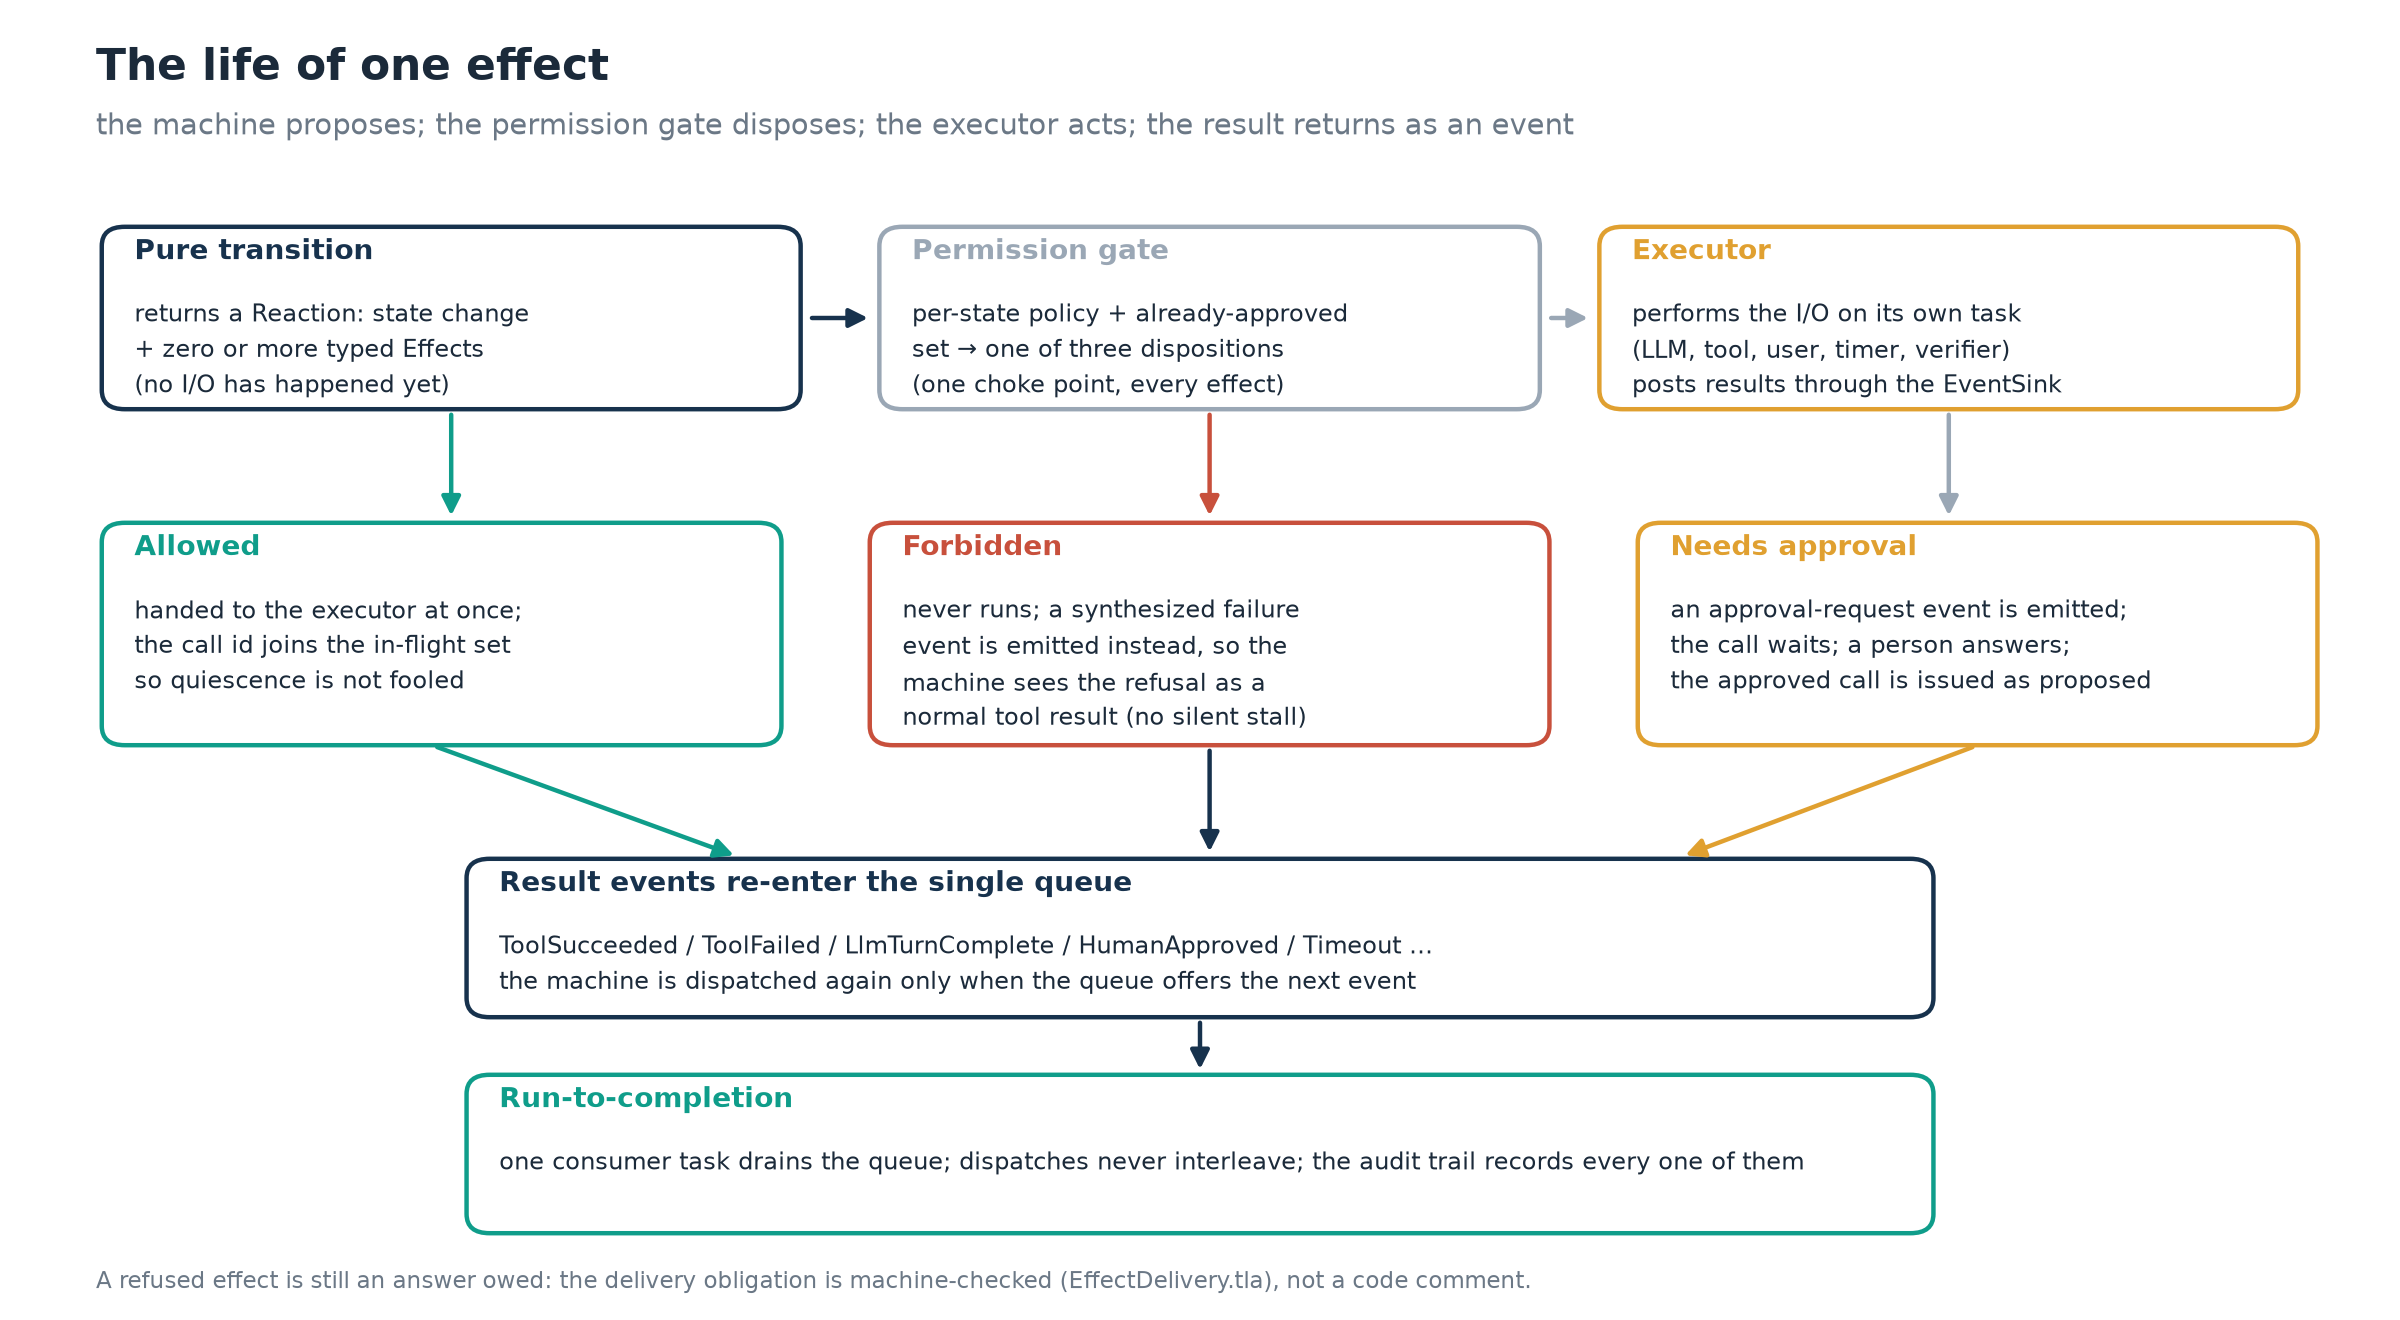
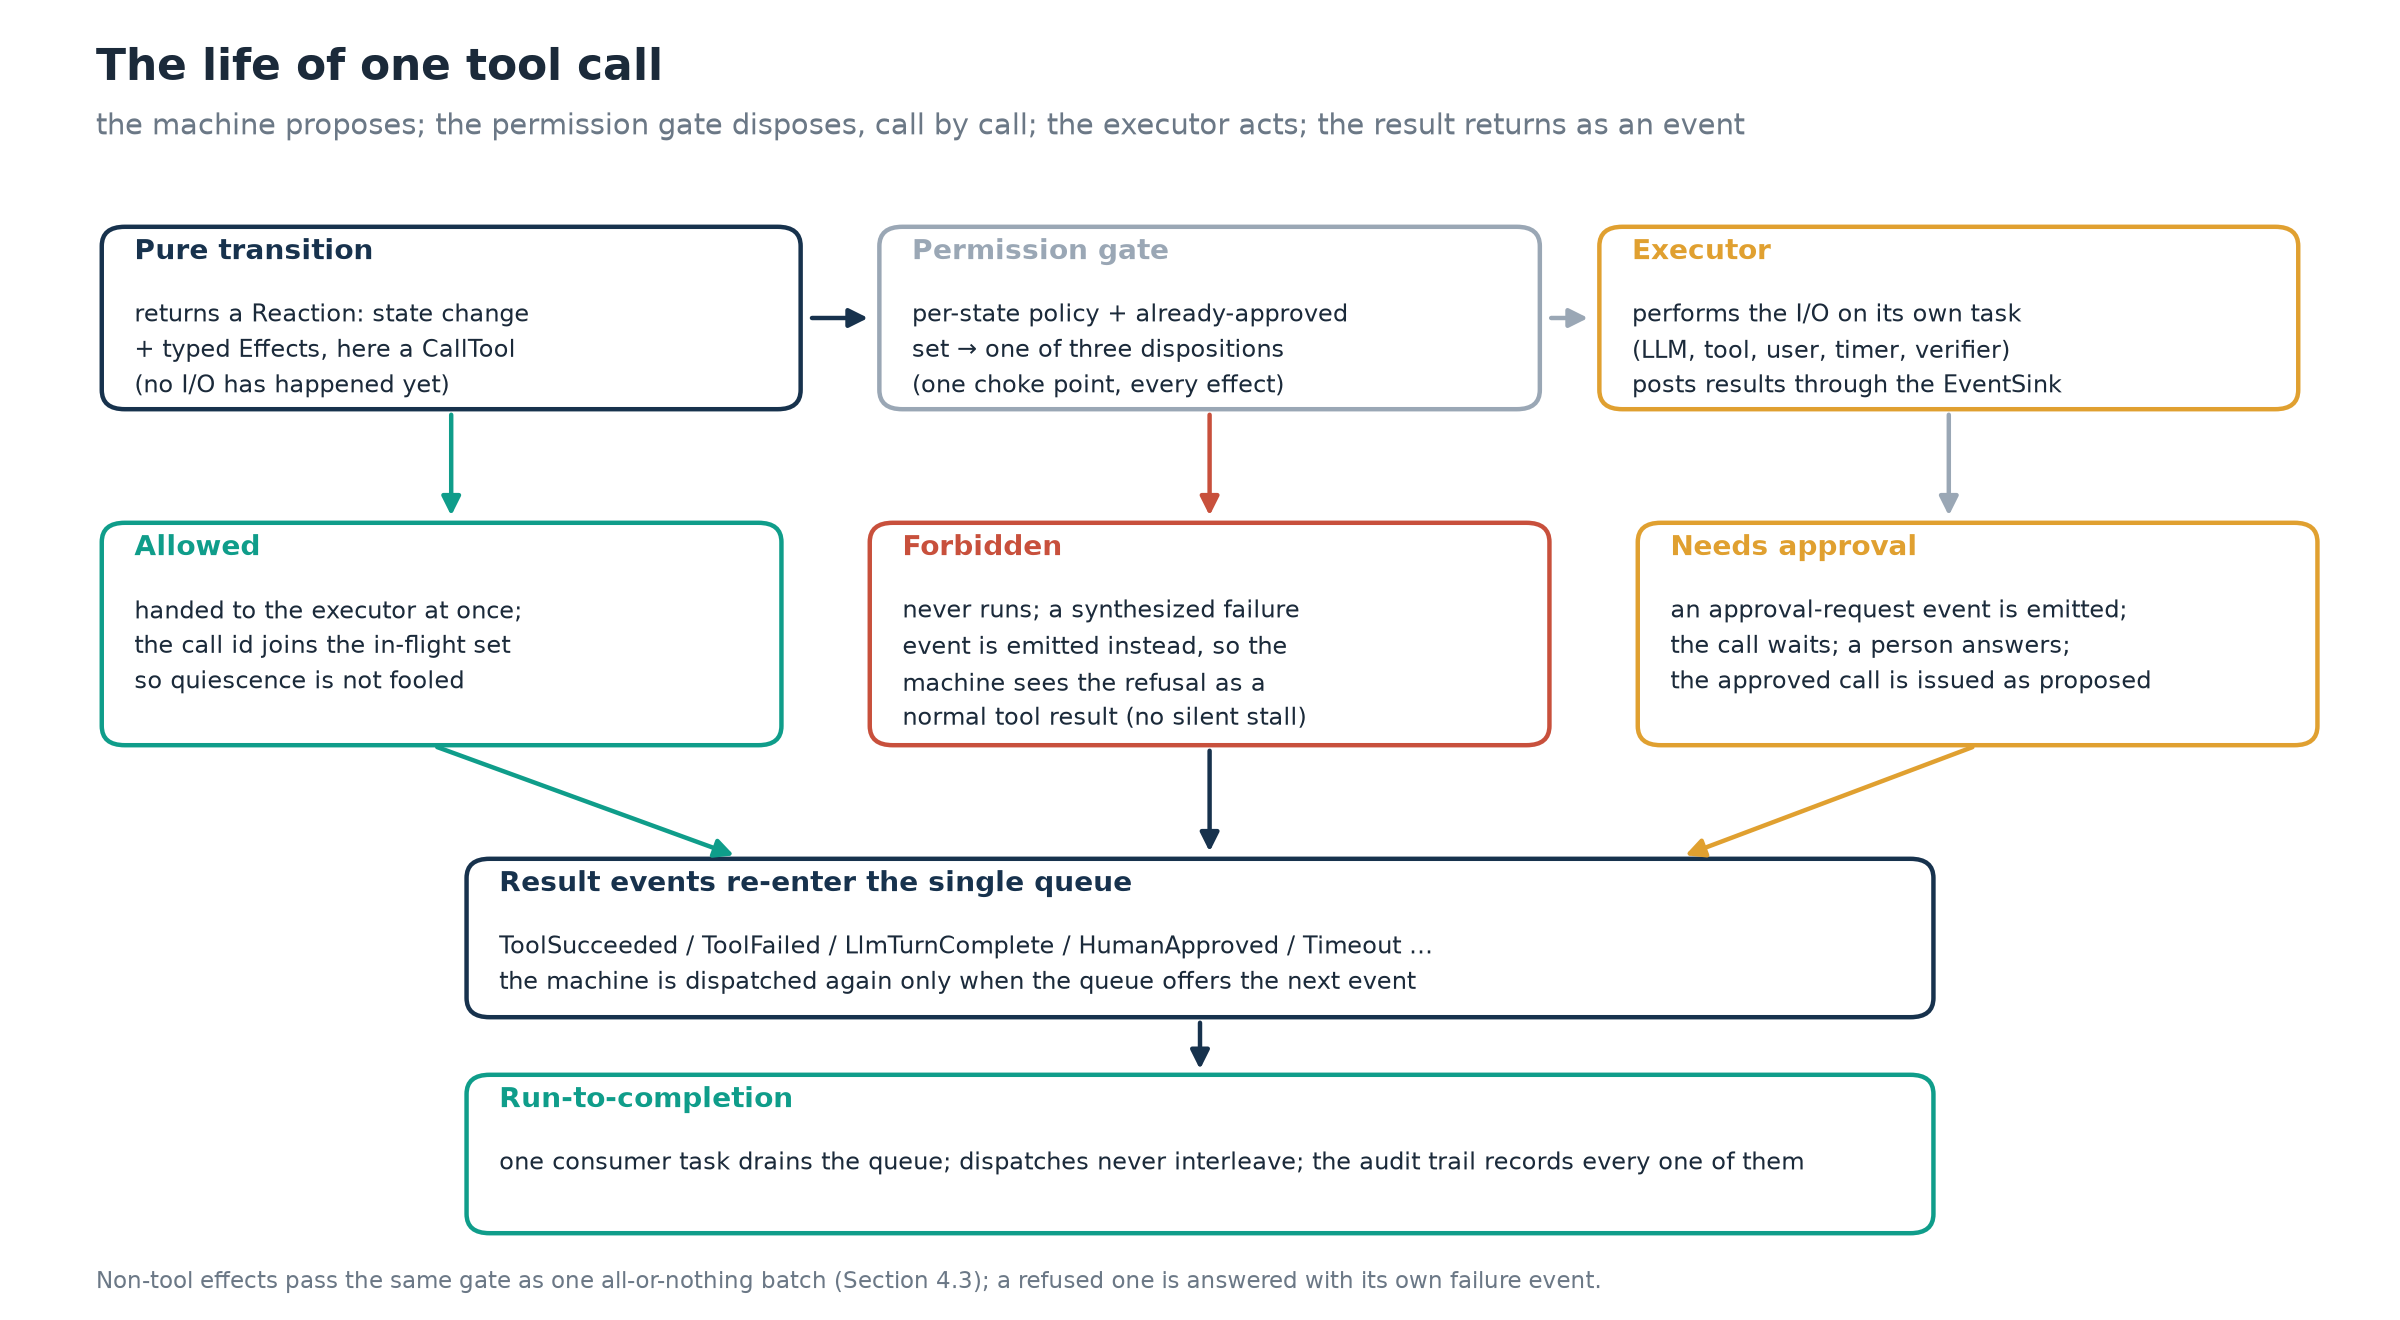
papers: state-machine says tool calls are gated per call and only the non-tool batch is all-or-nothing
The paper claimed one refused effect stops every effect of its dispatch. run_effects
classifies each CallTool on its own (a refused call becomes ToolFailed, its siblings
run) and validates only the remaining effects as one batch. Section 4.3 now states
both granularities and which effects carry no answer, Section 6.2 says the
EffectDelivery model abstracts the tool path coarsely, the delivery obligation is
no longer claimed as exactly-once (the model checks no silent stall), and figures 4
and 5 say tool call and non-tool batch. The TLA+ suite was rerun: 16 of 16 as expected.

diff --git a/papers/state-machine/figures.py b/papers/state-machine/figures.py
@@ -192,12 +192,12 @@ def fig_dispatch():
 # 4. The effect lifecycle -----------------------------------------------------
 def fig_effect():
     fig = plt.figure(figsize=(12, 6.6))
-    title(fig, "The life of one effect",
-          "the machine proposes; the permission gate disposes; the executor acts; the result returns as an event")
+    title(fig, "The life of one tool call",
+          "the machine proposes; the permission gate disposes, call by call; the executor acts; the result returns as an event")
     ax = fig.add_axes([0.02, 0.05, 0.96, 0.80]); ax.axis("off"); ax.set_xlim(0, 12); ax.set_ylim(0, 6.6)
 
     box(ax, 0.3, 5.3, 3.6, 1.1, "Pure transition",
-        "returns a Reaction: state change\n+ zero or more typed Effects\n(no I/O has happened yet)", NAVY, fs_head=10)
+        "returns a Reaction: state change\n+ typed Effects, here a CallTool\n(no I/O has happened yet)", NAVY, fs_head=10)
     box(ax, 4.35, 5.3, 3.4, 1.1, "Permission gate",
         "per-state policy + already-approved\nset → one of three dispositions\n(one choke point, every effect)", SLATE, fs_head=10)
     box(ax, 8.1, 5.3, 3.6, 1.1, "Executor",
@@ -224,7 +224,7 @@ def fig_effect():
     arrow(ax, 6.05, 3.18, 6.05, 2.48, NAVY)
     arrow(ax, 10.05, 3.18, 8.5, 2.48, AMBER)
     arrow(ax, 6.0, 1.48, 6.0, 1.12, NAVY)
-    foot(fig, "A refused effect is still an answer owed: the delivery obligation is machine-checked (EffectDelivery.tla), not a code comment.")
+    foot(fig, "Non-tool effects pass the same gate as one all-or-nothing batch (Section 4.3); a refused one is answered with its own failure event.")
     save(fig, "fig4-effect")
 
 
@@ -232,7 +232,7 @@ def fig_effect():
 def fig_validation():
     fig = plt.figure(figsize=(12, 6.2))
     title(fig, "A suite in which everything passes checks nothing",
-          "16 TLC configurations on 2026-10-12: 6 must pass, 8 must fail on a named property, 1 tracked gap, 1 priced trade-off")
+          "16 TLC configurations on 2026-10-13: 6 must pass, 8 must fail on a named property, 1 tracked gap, 1 priced trade-off")
     ax = fig.add_axes([0.02, 0.05, 0.96, 0.80]); ax.axis("off"); ax.set_xlim(0, 12); ax.set_ylim(0, 6.2)
 
     box(ax, 0.3, 4.5, 5.5, 1.4, "Pass (6 configurations)",
@@ -243,7 +243,7 @@ def fig_validation():
     box(ax, 0.3, 2.6, 5.5, 1.4, "Tracked gap (1)",
         "a property the code does not satisfy today, kept in\nthe suite and reported separately: Submachine's\norphaned child - closing it is a semantic decision", AMBER, fs_head=10)
     box(ax, 6.2, 2.6, 5.5, 1.4, "Priced trade-off (1)",
-        "a property given up on purpose: the all-or-nothing\nbatch drops an allowed effect when a sibling is refused\n- the sibling configuration shows the price", SLATE, fs_head=10)
+        "a property given up on purpose: the all-or-nothing\nnon-tool batch drops an allowed effect when a sibling\nis refused - the sibling configuration shows the price", SLATE, fs_head=10)
 
     box(ax, 0.3, 0.6, 11.4, 1.5, "What the models found",
         "the unbounded Init drill (a machine whose initial transitions cycle hung the agent silently - now guarded),\nresume-into-composite (a snapshot could place the machine where no dispatch ever rests it - now refused),\nthe refusal stall (an unanswered refused batch left the machine waiting forever - now answered)", NAVY, fs_head=10)

diff --git a/papers/state-machine/paper.md b/papers/state-machine/paper.md
@@ -97,8 +97,9 @@ boundary of what is proved is stated as carefully as what is proved inside it
    termination (Section 3).
 2. The *effect boundary*: an architectural rule that transitions are pure
    functions returning typed effects, formalised as a labelled transition
-   system with a permission gate, with a machine-checked delivery obligation
-   - every effect a machine can wait on is answered exactly once (Section 4).
+   system with a permission gate, with a model-checked delivery obligation
+   - every effect a machine can wait on is answered, never silently dropped
+   (Section 4).
 3. A composition and scaling methodology: in-state activity loops,
    submachine composition with exactly-once completion, context-resident
    durable state, and dual restore semantics (snapshot and replay)
@@ -344,7 +345,7 @@ capability travels *inside* the effect value, the check is structural.
 allowed effect, performs it on its own task, and posts result *events*
 back into the kernel's queue. Executing the world and deciding the world
 are thus in different crates, on different tasks, connected only by the
-queue - Figure 1 shows the seam, Figure 4 the life of one effect.
+queue - Figure 1 shows the seam, Figure 4 the life of one tool call.
 
 ![The layered architecture: many surfaces, one kernel, one seam.](img/fig1-architecture.png)
 
@@ -367,20 +368,35 @@ is waiting on; otherwise the machine rests in a healthy-looking state label
 waiting for a reply nobody will ever post: no error, no timeout, no retry.
 
 **Obligation (delivery).** *Every effect that a machine may block on
-receives exactly one terminal answer event: allowed effects receive the
-executor's result; refused effects receive a synthesized failure event;
-approval-gated effects receive the approval flow's outcome.*
+receives a terminal answer event: allowed effects receive the executor's
+result; refused effects receive a synthesized failure event; an
+approval-gated tool call receives an approval-request event, and the
+approval flow's outcome re-enters the queue as events.*
 
-This is a liveness property over an environment (the executor) the kernel
-does not control, which is precisely the shape of claim a test cannot
-establish and a model checker can - Section 6.3 reports it as
-*NoSilentStall*, checked over all interleavings of refusals, deliveries and
-answers, together with the *priced trade-off* the all-or-nothing batch
-validation makes: a dispatch whose batch contains one refused effect runs
-none of them, so an innocent sibling effect is dropped by design. The
-implementation answers the refusal so no machine stalls, and keeps the
-indivisible batch; the model checker prices both that choice and its
-per-effect alternative.
+The gate applies this obligation at two granularities, and the difference
+matters. *Tool calls are judged one at a time:* an allowed call is handed to
+its executor, a forbidden call is answered with a `ToolFailed` event the
+machine handles like any other tool result, and an approval-gated call is
+answered with an approval-request event; a refused call does not affect an
+allowed call emitted in the same dispatch. *Every other effect of a
+dispatch is judged as one batch:* if any of them is forbidden, or needs an
+approval (which only a tool call can obtain), none of them runs, the
+refusal is audited, and each refused effect a machine may wait on is
+answered with its failure event (`LlmFailed` for a model call,
+`HumanRejected` for an approval request nobody was asked, `EffectFailed`
+otherwise). Effects nothing waits on - persisting the audit trail,
+cancelling a timer, re-entering an internal event - carry no obligation
+and are answered by nothing.
+
+The non-tool batch is kept indivisible on purpose: a dispatch that wanted to
+roll back *and* ask the model what to do next does neither rather than half
+of it. The price is that an allowed non-tool effect is dropped when a
+non-tool sibling is refused. Both halves are model checked (Section 6.3):
+the obligation as *NoSilentStall* over all interleavings of refusals,
+deliveries and answers, and the batch decision as a *priced trade-off*
+against its per-effect alternative. The obligation is a liveness property
+over an environment (the executor) the kernel does not control, which is
+the shape of claim a test cannot establish and a model checker can.
 
 ## The active object runtime
 
@@ -395,7 +411,7 @@ yet re-entered the queue, so *quiescence* (an empty queue) is distinguishable
 from *waiting* (an empty queue plus work outstanding) - the distinction a
 capture-and-verify harness lives or dies by.
 
-![The life of one effect: propose, gate, execute, answer.](img/fig4-effect.png)
+![The life of one tool call: propose, gate, execute, answer.](img/fig4-effect.png)
 
 # Scaling: composition and methodology
 
@@ -558,14 +574,18 @@ owed. It is the only model of the runtime side (the impure half), and it is
 run in four configurations: the design as shipped, the per-effect gating
 alternative, the unanswered refusal (rejected design, must fail), and the
 all-or-nothing batch (priced trade-off, must fail on the sibling-drop
-property).
+property). Its abstraction of the tool path is coarse: a refused tool call
+is always answered, and no batch pairs an allowed tool call with a refused
+one. The per-call independence of tool calls (Section 4.3) therefore rests
+on the structure of the kernel's effect loop, which classifies each call
+separately, not on the model; we found no test that exercises it either.
 
 ![The validation taxonomy and what the models found.](img/fig5-validation.png)
 
 ## Results
 
-The full suite was run on 2026-10-12 with TLC (tla2tools v1.7.4, 8 worker
-threads): **16 configurations, all landing on their expected outcome -
+The full suite was last run on 2026-10-13 with TLC (tla2tools v1.7.4, 4 worker
+threads, OpenJDK 21): **16 configurations, all landing on their expected outcome -
 6 pass, 8 rejected-design configurations failing on their named property,
 1 tracked gap, 1 priced trade-off.** The suite's exit status asserts each
 expectation, not merely that TLC terminated.
@@ -584,8 +604,8 @@ named property:
    superstate where no dispatch ever rests - entry actions never fired,
    and the machine answered nothing. Fix: restore refuses composites,
    with the error naming the states that live under the offending one.
-3. **The refusal stall.** A batch of effects refused wholesale left the
-   machine waiting on answers nobody would post. Fix: every refused
+3. **The refusal stall.** A batch of non-tool effects refused wholesale
+   left the machine waiting on answers nobody would post. Fix: every refused
    effect a machine may wait on is answered with a synthesized failure
    event, making the refusal an ordinary event the machine can act on.
 
